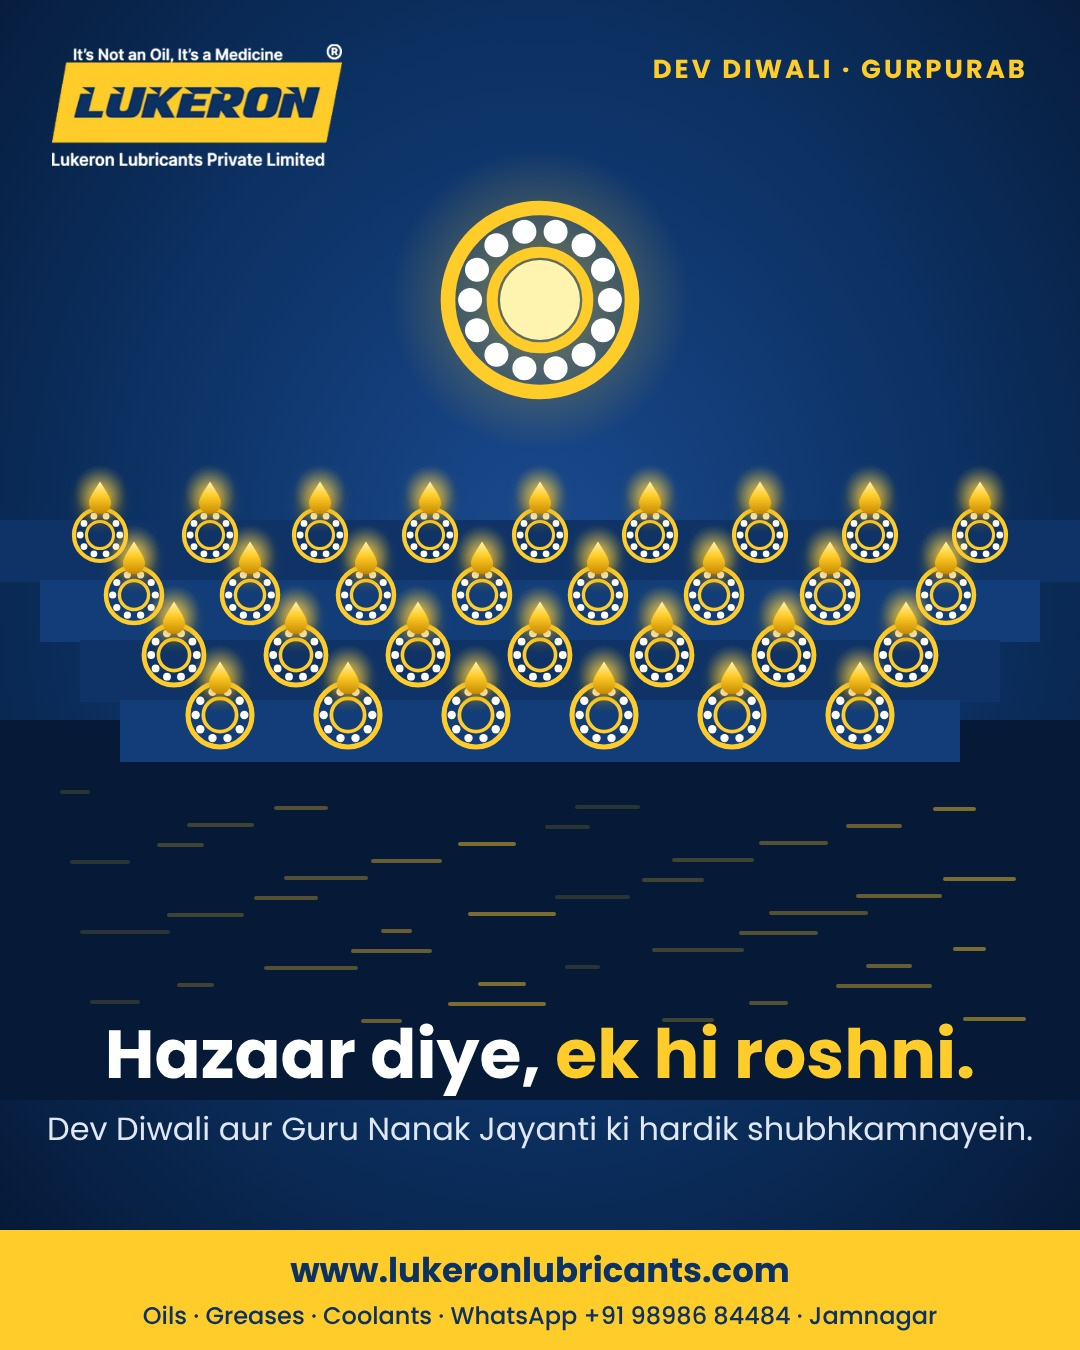
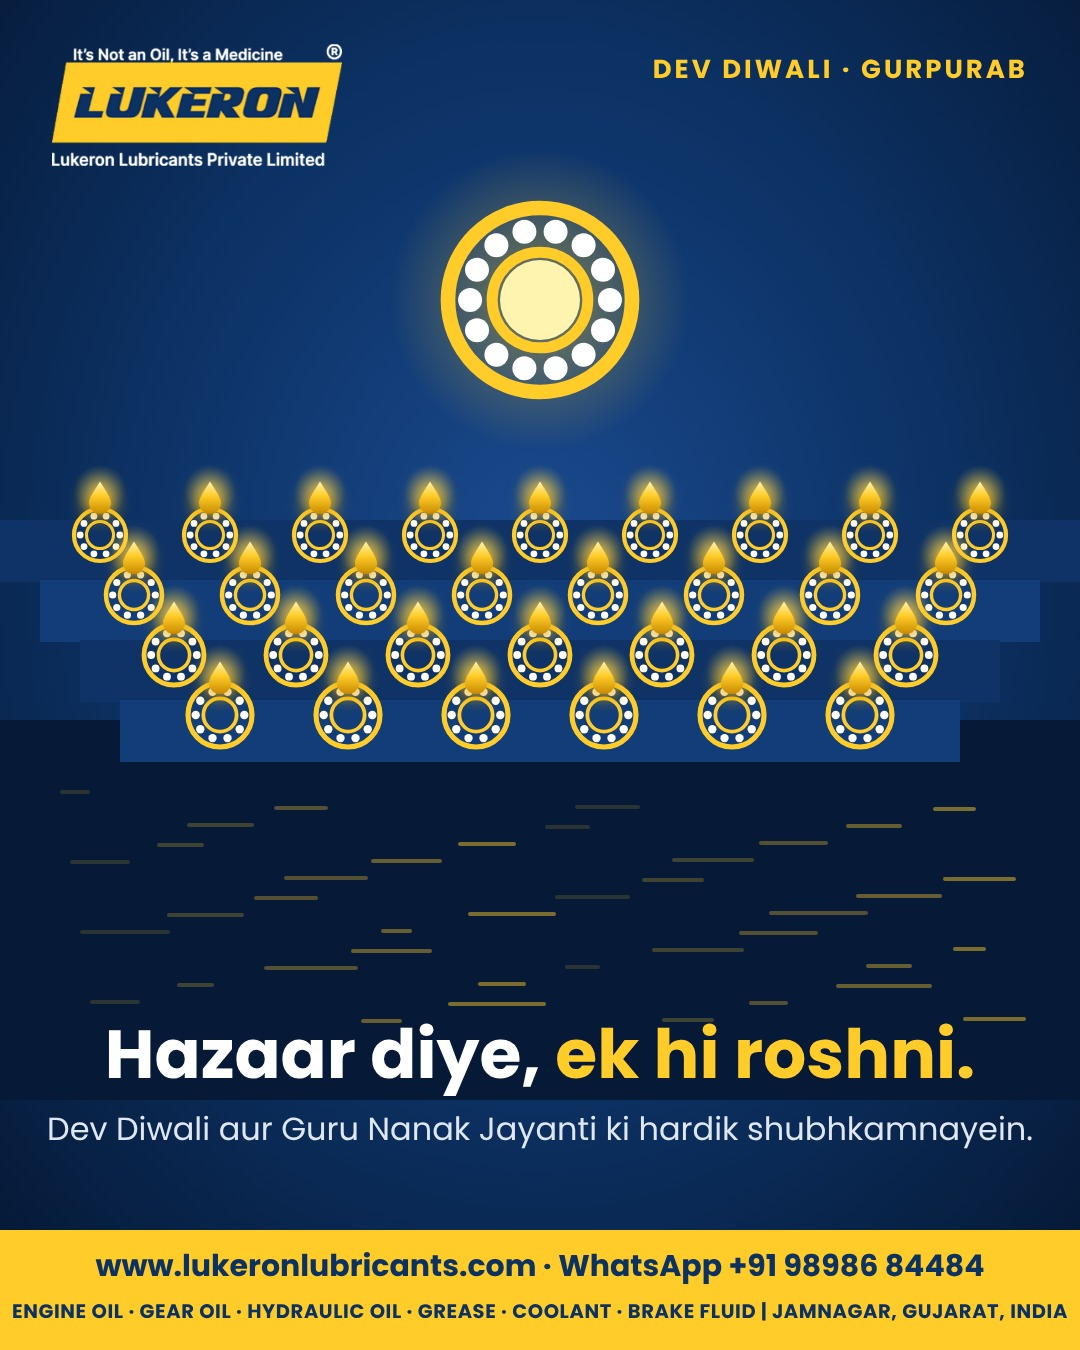
Add products + location strip to all Lukeron creatives; festival footer update
Claude-Session: https://claude.ai/code/session_01JS27bc7Xhvv5p8xMmpD2y7

Changed region(s): [[0.0, 0.9022, 1.0, 0.9956]]

diff --git a/brand/festival-style/mechanical_rangoli_gen.py b/brand/festival-style/mechanical_rangoli_gen.py
@@ -48,8 +48,8 @@ def frame(art, tag, h1a, h1b, sub, fs=74):
 <text x="540" y="1078" text-anchor="middle" font-family="Poppins" font-weight="700" font-size="{fs}" fill="{W}">{h1a} <tspan fill="{Y}">{h1b}</tspan></text>
 <text x="540" y="1140" text-anchor="middle" font-family="Poppins" font-weight="400" font-size="32" fill="#dfe7f5">{sub}</text>
 <rect x="0" y="1230" width="1080" height="120" fill="{Y}"/>
-<text x="540" y="1282" text-anchor="middle" font-family="Poppins" font-weight="700" font-size="34" fill="{N}">www.lukeronlubricants.com</text>
-<text x="540" y="1324" text-anchor="middle" font-family="Poppins" font-weight="500" font-size="24" fill="{N}">Oils · Greases · Coolants  ·  WhatsApp +91 98986 84484  ·  Jamnagar</text>
+<text x="540" y="1276" text-anchor="middle" font-family="Poppins" font-weight="700" font-size="30" fill="{N}">www.lukeronlubricants.com  ·  WhatsApp +91 98986 84484</text>
+<text x="540" y="1318" text-anchor="middle" font-family="Poppins" font-weight="700" font-size="19.5" fill="{N}" letter-spacing="0.6">ENGINE OIL · GEAR OIL · HYDRAULIC OIL · GREASE · COOLANT · BRAKE FLUID  |  JAMNAGAR, GUJARAT, INDIA</text>
 </svg>'''
 
 # ---------- 1. Dev Uthani Ekadashi: mechanical rangoli with oil-drop diya ----------
